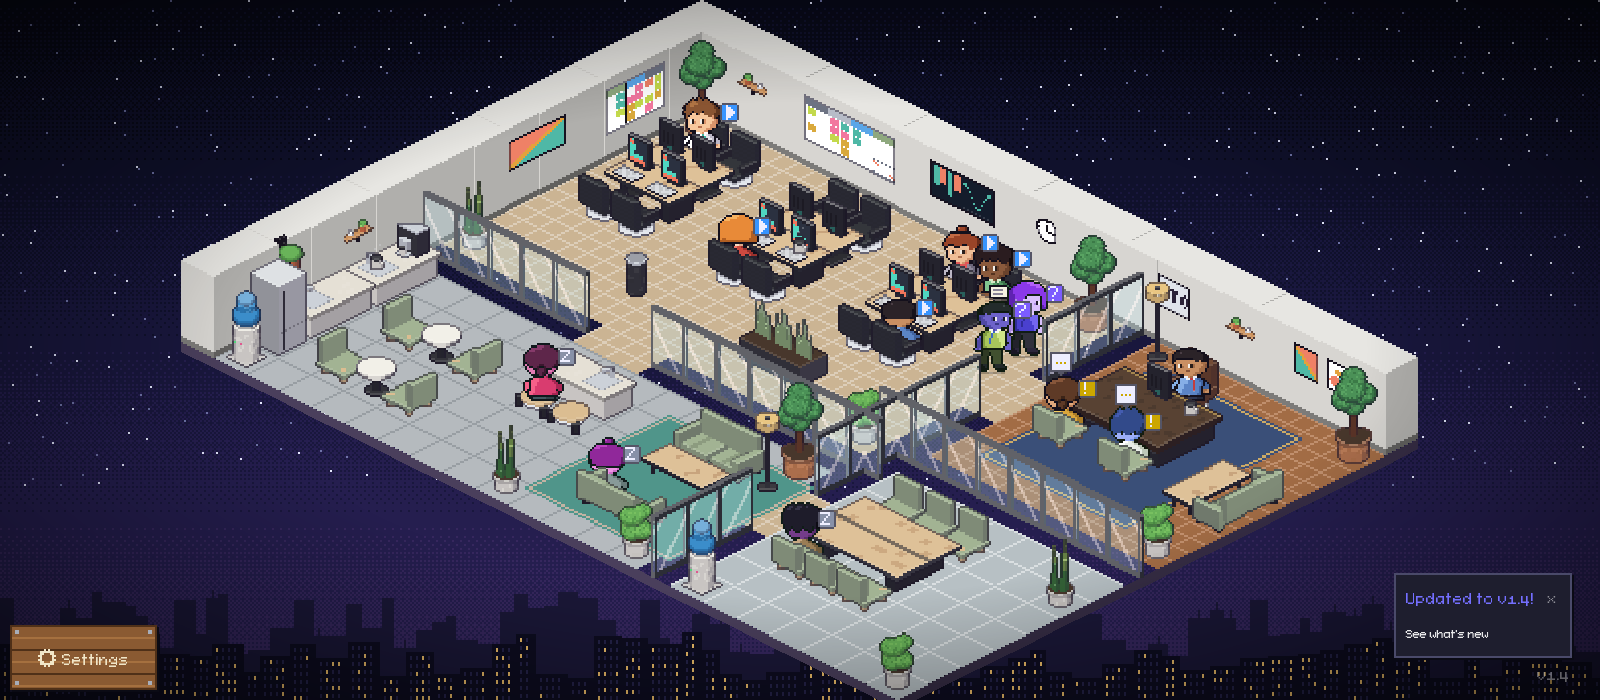
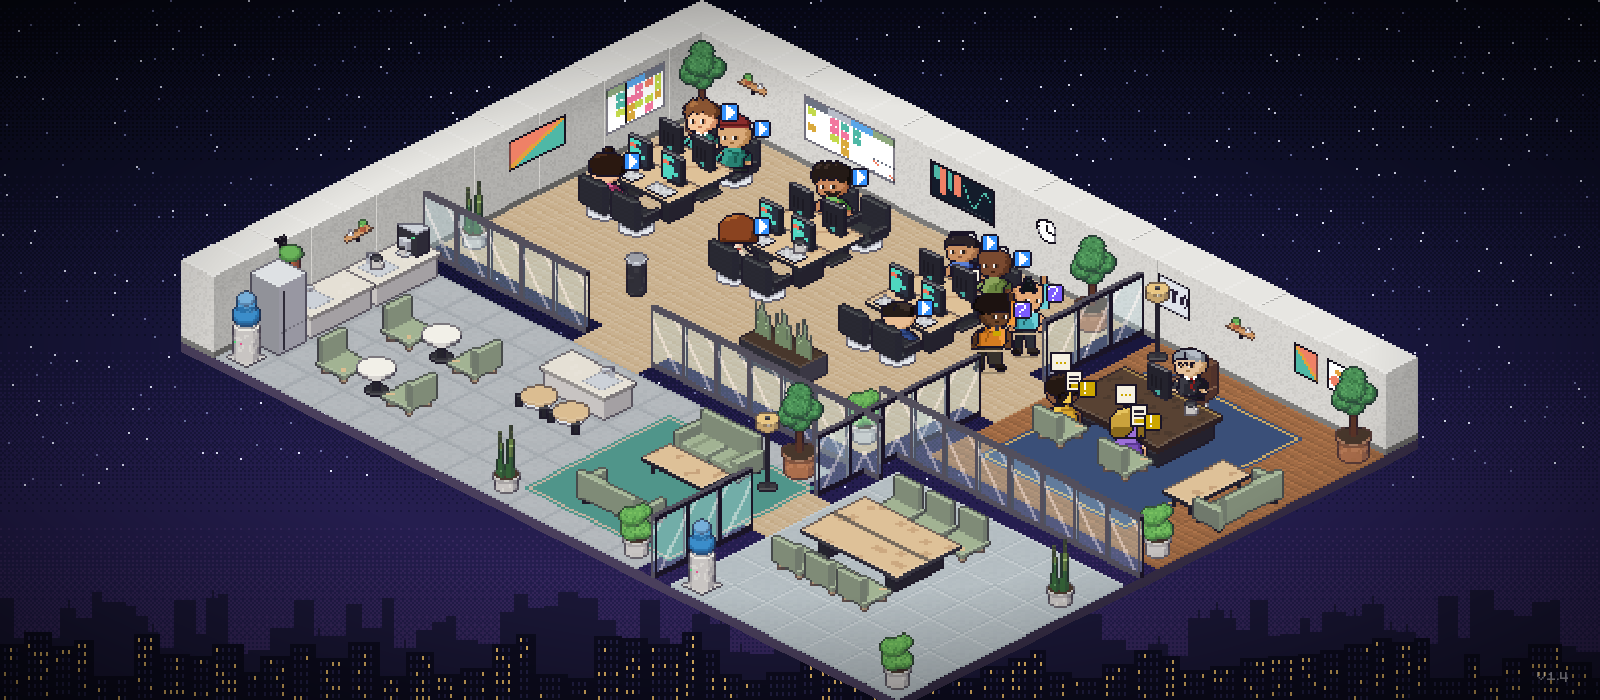
docs: set Habbo Hotel's look as the art direction for the office
Rewrite the art direction before the redraw: Habbo's figure proportions
in a 32x56 frame (about 2.75 heads, 14 px shoulders, parts composed from
joints and templates), a full ink outline on furniture with dark inner
edges, a woven checker dither on fabric and flat hard materials, flat
floors and walls, and the night setting kept because Habbo floats its
rooms over a dark void too.

habboassets.com is linked as the reference library and nothing else:
no Habbo pixel is traced, sampled, committed, shipped or fetched, and
everything stays generated by scripts/iso-art/.

office-before.png is now the office as it stands before this direction.

Refs #38

diff --git a/docs/art-direction.md b/docs/art-direction.md
@@ -7,12 +7,13 @@ The target look for everything drawn in the office: characters, furniture, floor
 ## Decisions
 
 - **Everything stays generated from code.** Characters, furniture and floors are written by `scripts/iso-art/` (`npx tsx scripts/iso-art/generate.ts`), walls are drawn procedurally at runtime (`webview-ui/src/office/isoWalls.ts`). No hand-drawn sheets and no third-party asset packs: the generator keeps every asset reviewable as a diff, reproducible, and free of licence questions.
-- **One style: chunky iso pixel art at night.** A cozy late-shift office in 2:1 isometric projection, lit warm inside against a deep indigo city outside. Characters are chunky and readable first, detailed second: a viewer across the room must tell who is working, who is waiting and who needs approval without reading a badge.
+- **The target is Habbo Hotel's look, and no Habbo asset is copied.** Habbo's rooms are the reference for the figure proportions, the furniture outline and the fabric texture. [habboassets.com](https://www.habboassets.com/) is the reference library because it renders every item at Terrarium's own tile size. It is a community mirror, unaffiliated with Sulake, and the art belongs to Sulake: no Habbo pixel is traced, sampled, downloaded into the repository, shipped in the npm tarball or the Docker image, or fetched at runtime. The references below are looked at, never used as input to a generator.
+- **One style: Habbo-style 2:1 iso pixel art at night.** A late-shift office floating in the dark, lit warm inside against a deep indigo city outside. Habbo's room view floats each room over a dark void too, so the night setting and the indigo skyline stay. Characters are readable first, detailed second: a viewer across the room must tell who is working, who is waiting and who needs approval without reading a badge.
 
 ## Pixel grid and projection
 
-- 2:1 isometric. A floor tile is a 32×16 diamond. One world unit of height is one sprite pixel: desk tops at 12, chair seats at 6, back walls 40 tall, glass partitions 30.
-- Nearest-neighbour sampling only. No anti-aliasing, no blur, no sub-pixel placement, no smooth gradients. Shading comes in hard bands.
+- 2:1 isometric. A floor tile is a 32×16 diamond, the size of Habbo's small zoom (a Habbo 2×1 sofa at size 32 is within 2 px of Terrarium's). One world unit of height is one sprite pixel: desk tops at 12, chair seats at 6, back walls 40 tall, glass partitions 30.
+- Nearest-neighbour sampling only. No anti-aliasing, no blur, no sub-pixel placement, no smooth gradients. Shading comes in hard bands, and the only blend between two bands is an ordered dither.
 - One sprite pixel is one art pixel. Never scale a sprite inside its sheet.
 
 ## Light
@@ -26,16 +27,22 @@ One key light from the screen's upper left.
 | Right faces (facing +col, screen lower right) | 45%        |
 
 - **Shadows shift toward cool violet `#1f1830`**, never toward black. Brightness is quantized into six bands (`lit()` in `scripts/iso-art/lib/scene.ts`).
-- **Rim light**: one lighter pixel row on the top front edges of boxes.
-- **Characters** follow the same light: the figure's screen-right side is the shaded side (`S`/`k`/`P`/`F` template letters), the left side carries the light tone.
+- **Rim light**: one lighter pixel row on the top front edges of boxes, the way Habbo picks out the edge of a table top or a wooden frame.
+- **Characters** follow the same light: the figure's screen-right side is the shaded side, the left side carries the light tone.
 - **Contact shadows**: characters stand on a translucent `#00000040` ground shadow, furniture casts its traced shadow on the floor.
 
 ## Outline
 
-- **Ink is `#1a1426`.** It is the outline of characters, furniture silhouettes, badges and bubbles.
-- **Characters** get a full 1 px outline, including the inner line between parts that overlap (an arm over the torso, a sleeve over a hand), so poses read at 1×.
-- **Furniture** gets a selective outline: silhouette pixels darken toward ink, inner edges are drawn by the light bands instead.
+- **Ink is `#1a1426`.** It is the outline of characters, furniture, badges and bubbles. It stands in for Habbo's near-black line and keeps the violet shadow family.
+- **Characters** get a full 1 px outline, including the inner line between parts that overlap (an arm over the torso, a hand over a sheet, the torso over the hips), so poses read at 1×.
+- **Furniture** gets a full 1 px outline, like Habbo furniture: every silhouette pixel is ink, not a darkened colour. Where one part passes in front of another (a cushion in front of a backrest, a monitor in front of a wall) the edge is a dark line, the colour mixed 65% toward ink. Edges between two faces of the same box are drawn by the light bands, not by a line.
 - **Floors and walls** have no outline. Tiles read through the light: seams and bevels, not lines.
+
+## Texture
+
+- **Fabric is dithered.** Upholstery, cushions and rugs carry Habbo's woven look: a 1 px checker of the face's lit tone and a tone mixed 18% toward ink, laid on the face's own coordinates so it follows the iso grid. Mesh keeps its own coarser weave.
+- **Hard materials are flat.** Wood (grain streaks only), metal, plastic, leather, glass, paper and plants take the light bands and nothing else.
+- **No value noise** on any surface: noise reads as grime at 1×, a dither reads as cloth.
 
 ## Palette
 
@@ -65,11 +72,13 @@ Base colours are the fully lit (top face) tone. Side tones are derived from them
 
 ## Characters
 
-A frame is 24×40. The feet touch the bottom centre of the frame. Seated frames sit 7 px lower, on a chair seat at height 6.
+A frame is 32×56, half of Habbo's 64×110 figure frame rounded to whole rows. The feet touch the bottom centre of the frame, on a one-row ground shadow. Seated frames sit 11 px lower, so the hips rest on a chair seat at height 6.
 
-**Proportions.** About 2.2 heads tall: head and hair about 18 px, torso 12, legs 10. Heads are big and round, faces carry two-pixel eyes (white plus pupil) and a one-pixel mouth.
+**Proportions.** Habbo's: a tall, slim body under a big head with a small face. A standing figure is about 44 px from crown to sole, about 2.75 heads: head and hair about 16 px, torso 14, legs 16 including the shoes. The shoulders are 14 px wide, no wider than the head, and the arms hang 3 px thick beside the torso. The face keeps two-pixel eyes (white plus pupil) and a one-pixel mouth inside the big head. Builds vary the shoulders by up to 2 px either way and the legs by 2 px, never the head.
 
-**Views.** Row 0 faces DOWN (3/4 front, screen lower left), row 1 faces UP (3/4 back, screen upper right), row 2 faces RIGHT and is row 0 mirrored. LEFT is row 1 mirrored at runtime.
+**Parts.** A figure is composed from parts, the way Habbo composes one from `hd`, `ch`, `lg` and `sh`: legs and shoes, a torso with its outfit cut, two arms posed by the frame, a head, hair, and one accessory. The arms and legs are drawn from joint positions per pose (`scripts/iso-art/characters/body.ts`), the head, hair and accessories are pixel templates, and every part is outlined in ink where it overlaps another.
+
+**Views.** Row 0 faces DOWN (3/4 front, screen lower left), row 1 faces UP (3/4 back, screen upper right), row 2 faces RIGHT and is row 0 mirrored. LEFT is row 1 mirrored at runtime. Habbo draws eight directions, but Terrarium moves on the tile grid, so four facings are enough.
 
 **Poses.** Every sheet carries the same frames, in this order (`CHARACTER_FRAMES` in `core/src/assets/constants.ts`):
 
@@ -85,51 +94,60 @@ A frame is 24×40. The feet touch the bottom centre of the frame. Seated frames 
 | `holdForm1` `holdForm2`               | standing, holding up a form with an amber mark                      | needs approval, at the CTO's door                |
 | `holdFormSeated1` `holdFormSeated2`   | seated, holding up a form with an amber mark                        | needs approval, on a CTO visitor chair           |
 
-Only working agents type or read. An agent that sits without working rests, and an agent that needs the human shows it with its body: a raised hand asks a question, a held-up form asks for a signature.
+Only working agents type or read. An agent that sits without working rests, and an agent that needs the human shows it with its body: a raised hand asks a question, a held-up form asks for a signature. The raised hand and the form reach above the head on opposite sides, so the two read apart from the front and the back.
 
 **Variety.** Twelve distinct workers ship (`char_0.png` to `char_11.png`), so a twelve-agent office has no two alike. Each one differs from every other in at least two of: build, hair, outfit cut, accessory, and its dominant outfit colour is distinct at 1×. Hue-shifted copies only appear from the thirteenth agent on. The CTO has a sheet of its own (`cto.png`) that no agent uses.
 
 ## Furniture
 
-- Modelled as primitives (boxes, cylinders, spheres) and ray traced by `IsoScene` (`scripts/iso-art/lib/scene.ts`), which applies the light, the shadow tint, the selective outline and the rim light above. Colours come from `PAL` (`scripts/iso-art/lib/palette.ts`).
-- An item with footprint fw×fh is `(fw+fh)*16` px wide and its floor diamond touches the image's left, right and bottom edges.
+- Modelled as primitives (boxes, cylinders, spheres) and ray traced by `IsoScene` (`scripts/iso-art/lib/scene.ts`), which applies the light, the shadow tint, the outline, the fabric dither and the rim light above. Colours come from `PAL` (`scripts/iso-art/lib/palette.ts`).
+- An item with footprint fw×fh is `(fw+fh)*16` px wide and its floor diamond touches the image's left, right and bottom edges. Ids and footprints are unchanged by this direction, so the default layout keeps its `REVISION`.
 - Electronics have an off and an on state. Screens glow `#7fe0c8` or `#5aa6e8` when on.
 
 ## Floors
 
 - Floors are 16×16 grayscale patterns, colourized per tile, then projected onto the 32×16 diamond. They are generated by `scripts/iso-art/floors.ts`.
 - A pattern draws a material, not a grid. Each cell carries a bright seam along its top and left edge (the shared boundary with the next cell when tiled) and a darker inset line along its bottom and right edge, so slabs, planks, bricks and tiles read as slightly raised pieces. `floor_0`–`floor_8` keep a fixed index-to-material mapping that the default layout and any saved layout rely on: `floor_0` plain polished slab, `floor_1` large pale tile (bright seam), `floor_2` large tile (dark grout), `floor_3` small square tile (dark grout), `floor_4` wood planks with grain, `floor_5` running-bond brick (bright mortar), `floor_6` aligned brick (dark mortar), `floor_7` fine checkerboard, `floor_8` coarse checkerboard.
-- Texture stays quiet: value noise of at most two bands, so characters and furniture keep the contrast.
+- Faces are flat between the seams, like Habbo's floor tiles: no noise. Only the wood planks carry grain.
 
 ## Walls
 
-- **Back walls** are 40 px boxes lit from the same direction as furniture but softer, because a wall face is the largest surface in the room and full furniture contrast would swamp it: the cap at 118% of the wall colour with a brighter rim pixel on its front edges, the left face at 95%, the right face at 78%, a baseboard at 55%, and a quiet hashed plaster texture of at most one band on the faces.
+- **Back walls** are 40 px boxes lit from the same direction as furniture but softer, because a wall face is the largest surface in the room and full furniture contrast would swamp it: the cap at 118% of the wall colour with a brighter rim pixel on its front edges, the left face at 95%, the right face at 78%, a baseboard at 55%. Faces are flat paint, like Habbo's wallpaper, with a one-pixel lip under the cap at 70% that separates the cap from the face. They stay lower than Habbo's walls on purpose: they are the cut-away back of an office seen from above, and a standing figure may clear them.
 - **Glass partitions** stand 30 px high: an ink-dark frame, a pale blue pane at 30% opacity and a diagonal white sheen, so the rooms behind stay visible.
 
 ## Badges and bubbles
 
-- Small sprites (9×9 for badges, 11×13 for bubbles), `webview-ui/src/office/sprites/status-*.json` and `bubble-*.json`, drawn in the ink outline `#1a1426`.
+- Small sprites (9×9 for badges, 11×13 for bubbles), `webview-ui/src/office/sprites/status-*.json` and `bubble-*.json`, drawn in the ink outline `#1a1426`. They float at the new head height: a badge beside the head, a bubble above the crown.
 - A **badge** is a filled state-colour plate with a white (`#ffffff`) glyph: ▶ working, ! needs approval, ? waiting for input, ✓ done, Z idle.
-- A **bubble** is paper (`#f6f1e2`) with an ink outline and a tail pointing at the head, carrying the state colour in its glyph. The pet-petted heart bubble follows the same paper-and-ink shape with its own pink (`#e64566`) glyph: it is a reaction, not a state indicator, so it sits outside the state-colour table.
+- A **bubble** is paper (`#f6f1e2`) with an ink outline and a tail pointing at the head, carrying the state colour in its glyph, the way Habbo's chat bubbles are a pale plate with a dark line. The pet-petted heart bubble follows the same paper-and-ink shape with its own pink (`#e64566`) glyph: it is a reaction, not a state indicator, so it sits outside the state-colour table.
 
 ## HUD
 
 - **The HUD is furnished like the office.** It is made of the same materials as the room: modals and notices are paper memos pinned with a square tack (`ui/Modal.tsx`, `ChangelogModal.tsx`, `MigrationNotice.tsx`: `.paper-sheet` plus a `.paper-pin`), and tooltips, toasts and in-world labels are paper tags (`Tooltip.tsx`, `VersionIndicator.tsx`, `ConnectionIndicator.tsx`, `ToolOverlay.tsx`'s activity label, the greeter's `IntroBubble.tsx`: `.paper-tag`, ink-bordered). There is no flat dark panel that belongs to no object in the room.
 - **Font**: FS Pixel Sans, at the theme's pixel sizes.
-- **Shape**: square corners, 2 px borders in wood-dark or ink, hard 2 px offset shadows (`2px 2px 0px`) with no blur, and no gradients except hard-edged bands such as wood grain.
+- **Shape**: square corners, 2 px borders in wood-dark or ink, hard 2 px offset shadows (`2px 2px 0px`) with no blur, and no gradients except hard-edged bands such as wood grain. Habbo's UI windows share the hard line and the flat fill, so the HUD needs no change for this direction.
 - **Colours**: wood, paper, ink and the state colours above. `npm run lint` enforces it: colour literals only in `constants.ts` and the CSS variables, pixel shadows, and the pixel font.
 
 ## References
 
+Terrarium's own renders:
+
 - [The default office](media/art-direction/office.png) at 1600×700 with twelve agents: five working, two needing approval, two waiting for input, three idle. This is the target state.
 - [The office before this direction](media/art-direction/office-before.png), same scene and size, for comparison.
 - [The twelve workers and the CTO](media/art-direction/characters.png), every frame of every sheet at 3×, one sheet per band (front, back and side rows).
-- Inspiration only, no assets copied: Habbo Hotel (2:1 rooms, outlined furniture, readable figures) and Stardew Valley (warm palettes, big heads, chunky outlines).
+
+Habbo Hotel on [habboassets.com](https://www.habboassets.com/), looked at for style, never copied. Each page shows the item in all four directions at size 32, Terrarium's tile:
+
+- Figures: the [imager](https://www.habboassets.com/imager), for proportions (a 64×110 frame at the 64 px tile) and the inner outline between parts.
+- Outline and fabric: the [Silo sofa](https://www.habboassets.com/furniture/sofa_silo), [armchair](https://www.habboassets.com/furniture/sofachair_silo) and [chair](https://www.habboassets.com/furniture/chair_silo): full dark line, dithered cushions, a lit edge on the wooden frame.
+- Hard surfaces: the [Silo table](https://www.habboassets.com/furniture/table_silo_med) and the [Plasto chair](https://www.habboassets.com/furniture/chair_plasto): flat bands, a rim on the top's front edges.
+- Plants: the [pineapple plant](https://www.habboassets.com/furniture/plant_pineapple).
 
 ## Checklist for new art
 
 1. Generated by `scripts/iso-art/` or drawn procedurally. Regenerating reproduces the committed assets with no diff.
-2. Lit from the upper left, shadows toward `#1f1830`, colours from the palette above.
-3. Outlined in ink as the section above says for its kind.
-4. Characters: every frame of `CHARACTER_FRAMES`, feet at the bottom centre, seated frames 7 px lower.
-5. Furniture: the footprint anchor contract above, and a bump of the default layout `REVISION` if an id or a footprint changes.
+2. No Habbo asset, and nothing traced, sampled or fetched from habboassets.com or habbo.com.
+3. Lit from the upper left, shadows toward `#1f1830`, colours from the palette above.
+4. Outlined in ink as the section above says for its kind, fabric dithered, hard materials flat.
+5. Characters: every frame of `CHARACTER_FRAMES` in all three rows, feet at the bottom centre, seated frames 11 px lower.
+6. Furniture: the footprint anchor contract above, and a bump of the default layout `REVISION` if an id or a footprint changes.
